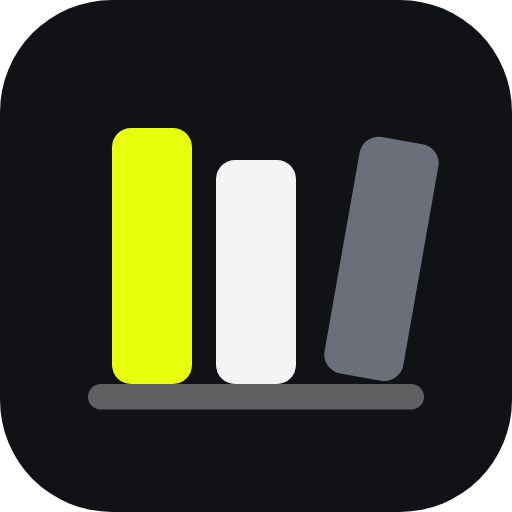
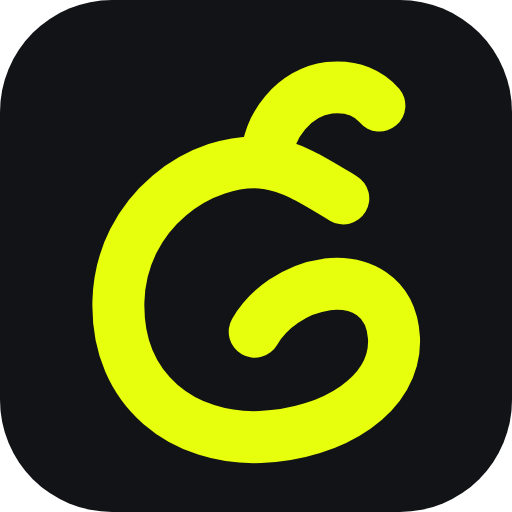
Brand: the G + ع mark everywhere
GameShelf's new mark is a G drawn with the Arabic letter ع, from
Hamad's sketch, at line weight 52. It replaces the shelf icon:
- the favicon: lime on the dark tile
- the header: the mark beside GameShelf, or beside قيم شلف on the
  Arabic site
- the apple-touch-icon, a 1200x630 Open Graph image (with og and
  twitter tags) and the Discord activity badge: dark on lime, now
  served from gameshelf.ae
- the desktop window, taskbar and installer: a multi-size icon.ico
  (256/64/48/32/16)
- tray PNGs, lime and dark, for when the app gets a tray

An empty library shows the ع whose tail is a shelf. The static footer
text matches the one the page draws.

Claude-Session: https://claude.ai/code/session_01VPJSJeXWMoZ9bgPGCV9WiV

diff --git a/public/index.html b/public/index.html
@@ -7,6 +7,17 @@
   <title>GameShelf</title>
   <meta name="description" content="Discover every game, find where to buy it, and share the games you've played.">
   <link rel="icon" href="/favicon.svg" type="image/svg+xml">
+  <link rel="apple-touch-icon" href="/apple-touch-icon.png">
+  <meta property="og:type" content="website">
+  <meta property="og:site_name" content="GameShelf">
+  <meta property="og:title" content="GameShelf · قيم شلف">
+  <meta property="og:description" content="Discover every game, find where to buy it, share what you play, and play it in Arabic. Arabic packs are always free.">
+  <meta property="og:url" content="https://gameshelf.ae/">
+  <meta property="og:image" content="https://gameshelf.ae/og-image.png">
+  <meta property="og:image:width" content="1200">
+  <meta property="og:image:height" content="630">
+  <meta property="og:image:alt" content="The GameShelf mark, a G drawn with the Arabic letter ع, beside GameShelf and قيم شلف">
+  <meta name="twitter:card" content="summary_large_image">
   <script src="/js/boot.js"></script>
   <link rel="stylesheet" href="/css/styles.css">
   <script type="module" src="/js/main.js"></script>
@@ -15,7 +26,7 @@
   <!-- App shell in the style of a desktop game launcher: top bar, sidebar, content. -->
   <header class="topbar" id="topbar">
     <div class="topbar-left">
-      <a href="#/" class="logo" aria-label="GameShelf home">Game<span>Shelf</span></a>
+      <a href="#/" class="logo" aria-label="GameShelf home"><svg class="logo-mark" viewBox="0 0 512 512" aria-hidden="true" focusable="false"><path d="M343.3,198.4 C316.2,182 292.6,166.5 266.8,163.1 C202.3,155.4 120.6,211.3 118.4,301.6 C116.3,391.9 185.1,440 260.3,437 C333.4,434 396.6,394 394,338.1 C391.4,295.1 359.2,280.9 326.9,284.4 C294.7,288.7 267.6,309.3 254.7,331.7"/><path d="M266.8,163.1 C265.9,125.3 296,91.7 329.1,87.8 C353.6,85.3 369.9,94.3 379.4,105.5"/></svg><span class="logo-word">Game<span>Shelf</span></span></a>
       <div class="history">
         <button type="button" class="ghost-btn" id="go-back" aria-label="Back"></button>
         <button type="button" class="ghost-btn" id="go-forward" aria-label="Forward"></button>
@@ -33,9 +44,9 @@
   <div class="content">
     <main id="app" tabindex="-1"></main>
     <footer class="footer">
-      <p>GameShelf doesn't sell anything. Every buy button goes straight to the store. <a href="#/legal">About & legal</a></p>
+      <p>Arabic packs are free for everyone. Buy buttons go straight to the store. <a href="#/legal">About & legal</a></p>
       <p id="data-credit"></p>
-      <p>Game names, art and trademarks belong to their owners. Not affiliated with Valve, Twitch or any publisher.</p>
+      <p>Game names, art and trademarks belong to their owners. Not affiliated with Valve or any publisher.</p>
     </footer>
   </div>
 

diff --git a/public/css/styles.css b/public/css/styles.css
@@ -192,8 +192,13 @@ a.tag:hover { background: #3a3c43; }
   border-bottom: 1px solid var(--border);
 }
 .topbar-left { display: flex; align-items: center; justify-content: space-between; padding-inline: 24px 16px; }
-.logo { font-size: 20px; font-weight: 800; letter-spacing: -0.05em; }
-.logo span { color: var(--accent); }
+.logo { display: inline-flex; align-items: center; gap: 9px; font-size: 20px; font-weight: 800; letter-spacing: -0.05em; }
+.logo .logo-word { color: var(--text); }
+.logo .logo-word span { color: var(--accent); }
+/* The G + ع mark (drawn from Hamad's sketch), in the page's accent. */
+.logo-mark { width: 30px; height: 30px; flex: none; fill: none; stroke: var(--accent); stroke-width: 52; stroke-linecap: round; stroke-linejoin: round; }
+[dir="rtl"] .logo-word { letter-spacing: 0; font-family: "Thmanyah Local", "Alexandria", sans-serif; }
+.empty-art { width: 180px; height: auto; margin-bottom: 8px; }
 .history { display: flex; gap: 4px; }
 .topbar-center { display: flex; align-items: center; justify-content: center; gap: 8px; }
 .search-pill {

diff --git a/public/js/views/library.js b/public/js/views/library.js
@@ -45,7 +45,9 @@ export async function libraryView(app, params) {
       .sort(SORTS[ui.sort].compare);
     if (!state.library.length) {
       return emptyState(t('Nothing on your shelf yet'), t('Add games from any game page, or bring in your whole Steam library.'),
-        html`<div class="empty-actions"><a class="pill-btn pill-light" href="#/import">${t('Import from Steam')}</a><a class="pill-btn" href="#/browse">${t('Find games')}</a></div>`);
+        html`<div class="empty-actions"><a class="pill-btn pill-light" href="#/import">${t('Import from Steam')}</a><a class="pill-btn" href="#/browse">${t('Find games')}</a></div>`,
+        // The ع whose tail is a shelf, waiting for games.
+        html`<img class="empty-art" src="/img/empty-shelf.svg" alt="" width="180" height="138">`);
     }
     if (!shown.length) return emptyState(t('No games match'), t('Try another search or filter.'));
     if (ui.status !== 'all') return block(shown);

diff --git a/public/js/main.js b/public/js/main.js
@@ -44,6 +44,8 @@ function renderTopbar() {
   label('home-btn', 'Home');
   label('search-open', 'Search games (Ctrl+K)');
   document.querySelector('.topbar .logo').setAttribute('aria-label', t('GameShelf home'));
+  // The wordmark beside the G + ع mark: «قيم شلف» on the Arabic site.
+  mount(document.querySelector('.topbar .logo-word'), lang === 'ar' ? html`قيم <span>شلف</span>` : html`Game<span>Shelf</span>`);
   mount(document.querySelector('.footer'), html`
     <p>${th("Arabic packs are free for everyone. Buy buttons go straight to the store. {legal}", { legal: html`<a href="#/legal">${t('About & legal')}</a>` })} · <a href="#/support">${t('Support')}</a></p>
     <p id="data-credit"></p>

diff --git a/public/js/components.js b/public/js/components.js
@@ -253,8 +253,8 @@ export function levelBadge(level, size = '') {
   return html`<span class="level level-tier-${tier} ${size}" title="${t('Level {n}', { n: level })}"><span>${level}</span></span>`;
 }
 
-export const emptyState = (title, body = '', action = '') =>
-  html`<div class="empty"><h3>${title}</h3>${body ? html`<p>${body}</p>` : ''}${action}</div>`;
+export const emptyState = (title, body = '', action = '', art = '') =>
+  html`<div class="empty">${art}<h3>${title}</h3>${body ? html`<p>${body}</p>` : ''}${action}</div>`;
 
 // ---- Loading skeletons ------------------------------------------------------------
 

diff --git a/desktop/main.js b/desktop/main.js
@@ -191,7 +191,8 @@ function createWindow(startPath) {
     minWidth: 960,
     minHeight: 600,
     title: 'GameShelf',
-    icon: path.join(__dirname, 'icon.png'),
+    // Windows takes the .ico, with its small sizes drawn for the taskbar.
+    icon: path.join(__dirname, process.platform === 'win32' ? 'icon.ico' : 'icon.png'),
     backgroundColor: CHROME_COLOR,
     show: false,
     // GameShelf's top bar is the title bar. On Windows and Linux the page draws

diff --git a/README.md b/README.md
@@ -504,6 +504,16 @@ scripts/             developer tools (backfill-games, search-debug, localization
 test/                automated tests: npm test
 ```
 
+## Brand
+
+GameShelf's mark is a **G drawn with the Arabic letter ع**: the G's bowl runs into the ع's lower arm, its upper arm rises from the same point, and the G ends in an inward curl (drawn from Hamad's sketch, line weight 52 on a 512 grid). It's lime `#e7ff0c` on `#121316`, or dark on lime.
+
+- `public/brand/mark.svg`: the mark alone (`currentColor`), the master for everything below; the header inlines the same two paths beside «GameShelf», or «قيم شلف» on the Arabic site
+- `public/favicon.svg`: lime mark on the dark rounded tile
+- `public/brand/mark-lime-tile.svg`, `public/apple-touch-icon.png` (180 px), `public/og-image.png` (1200 × 630, link previews), `public/brand/discord-badge.png`: dark mark on lime
+- `desktop/icon.ico` (256, 64, 48, 32, 16: window, taskbar and installer), `desktop/icon.png` (512, macOS and Linux), `desktop/icons/tray-*.png` (16, 24, 32, lime and `-dark`, for a tray icon)
+- `public/img/empty-shelf.svg`: the ع whose tail is a shelf, shown in an empty library
+
 ## Data sources and legal notes
 
 GameShelf credits each source where its data appears and on the About & legal page (`#/legal`):
